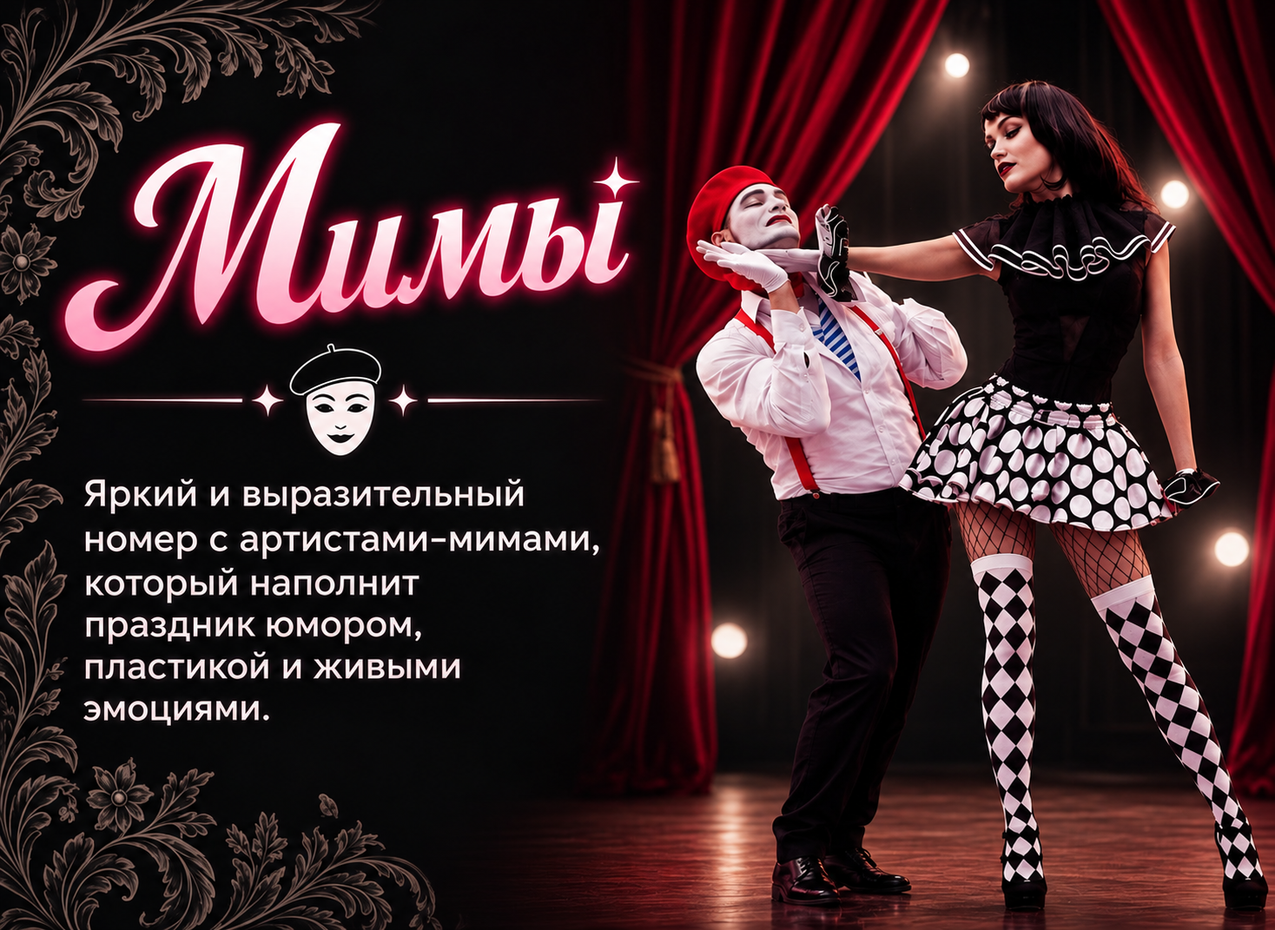
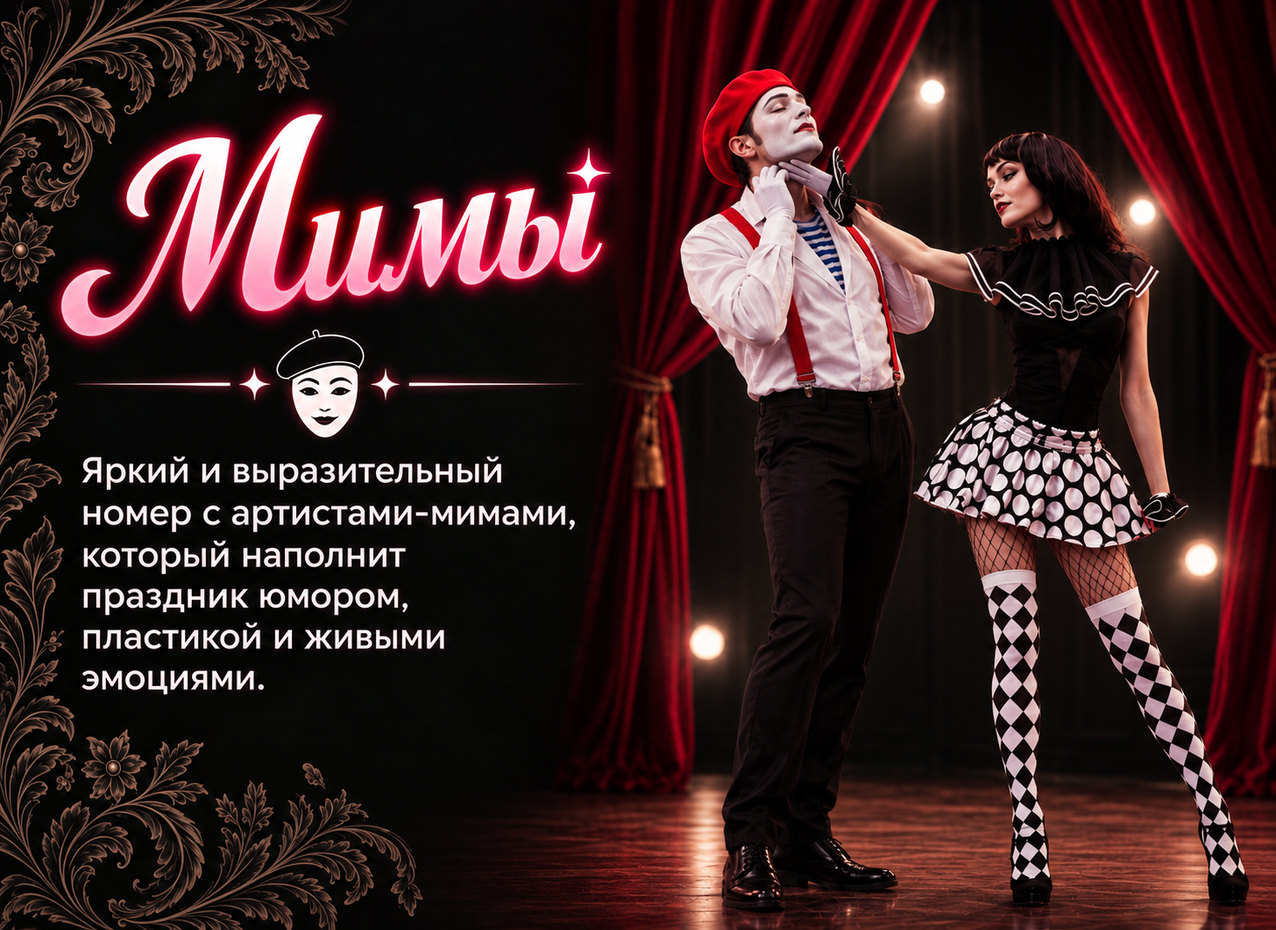
Обновление: пустые поля логина/пароля в админке, новое превью для 10-го шоу (Мимы) и сдвиг баннера для ВК вправо

diff --git a/index.html b/index.html
@@ -25,8 +25,8 @@
 
     <!-- Preload Critical Background & Show Previews for Instant 0ms Load -->
     <link rel="preload" as="image" href="./img/main-bg.webp" type="image/webp" media="(min-width: 961px)" fetchpriority="high">
-    <link rel="preload" as="image" href="./img/index/banner.png?v=1791580001" type="image/png" media="(min-width: 961px)" fetchpriority="high">
-    <link rel="preload" as="image" href="./img/index/banner.png?v=1791580001" type="image/png" media="(max-width: 960px)" fetchpriority="high">
+    <link rel="preload" as="image" href="./img/index/banner.png?v=1791592000" type="image/png" media="(min-width: 961px)" fetchpriority="high">
+    <link rel="preload" as="image" href="./img/index/banner.png?v=1791592000" type="image/png" media="(max-width: 960px)" fetchpriority="high">
     <link rel="preload" as="image" href="./show1.png?v=1791580001" type="image/png" fetchpriority="high">
     <link rel="preload" as="image" href="./show2.png?v=1791580001" type="image/png" fetchpriority="high">
     <link rel="preload" as="image" href="./show3.webp?v=1791553550000" type="image/webp">
@@ -39,16 +39,17 @@
     <meta property="og:title" content="Та-Ис шоу — Танцевальное шоу на ваш праздник | Самара">
     <meta property="og:description" content="Яркие танцевальные шоу, эксклюзивная хореография и роскошные костюмы для вашего праздника! Выездные выступления на свадьбы и корпоративы в Самаре и по РФ.">
     <meta property="og:url" content="https://таисшоу.рф/">
-    <meta property="og:image" content="https://таисшоу.рф/img/index/banner.png">
-    <meta property="og:image:width" content="1600">
-    <meta property="og:image:height" content="770">
+    <meta property="og:image" content="https://таисшоу.рф/img/index/banner.png?v=1791592000">
+    <meta property="og:image:width" content="1808">
+    <meta property="og:image:height" content="870">
+    <meta property="vk:image" content="https://таисшоу.рф/img/index/banner.png?v=1791592000">
 
     <!-- Twitter / X Cards -->
     <meta name="twitter:card" content="summary_large_image">
     <meta name="twitter:domain" content="таисшоу.рф">
     <meta name="twitter:title" content="Та-Ис шоу — Танцевальное шоу на праздник | Самара">
     <meta name="twitter:description" content="Закажите эксклюзивное танцевальное шоу Та-Ис шоу на мероприятие в Самаре и по РФ. Завораживающая хореография и атмосфера праздника!">
-    <meta name="twitter:image" content="https://таисшоу.рф/img/index/banner.png">
+    <meta name="twitter:image" content="https://таисшоу.рф/img/index/banner.png?v=1791592000">
 
     <!-- Yandex.Metrika counter -->
     <script type="text/javascript">
@@ -179,7 +180,7 @@
                 width: 100% !important;
                 max-width: 100% !important;
                 aspect-ratio: 1808 / 870 !important;
-                background-image: url('./img/index/banner.png?v=1791580001') !important;
+                background-image: url('./img/index/banner.png?v=1791592000') !important;
                 background-size: contain !important;
                 background-position: center center !important;
                 background-repeat: no-repeat !important;
@@ -424,7 +425,7 @@
         min-height: unset !important;
         max-height: none !important;
         padding: 0 !important;
-        background-image: url('./img/index/banner.png?v=1791580001') !important;
+        background-image: url('./img/index/banner.png?v=1791592000') !important;
         background-size: cover !important;
         background-repeat: no-repeat !important;
         background-position: center center !important;
@@ -1432,7 +1433,7 @@
                 <div class="content custom-image-content"></div>
             </div>
             <div class="event-item swiper-slide" data-month-year="10_2027" data-index="9" style="cursor: pointer;">
-                <img class="background-image" src="./show10.webp?v=1791553010000" alt="Мимы" loading="lazy" decoding="async" style="position: absolute; top: 0px; left: 0px; width: 100%; height: 100%; object-fit: cover; object-position: left bottom; transform: none;">
+                <img class="background-image" src="./show10.webp?v=1791592000" alt="Мимы" loading="lazy" decoding="async" style="position: absolute; top: 0px; left: 0px; width: 100%; height: 100%; object-fit: cover; object-position: center center; transform: none;">
                 <div class="content custom-image-content"></div>
             </div>
         </div>
@@ -1842,7 +1843,7 @@ window.monthsData = [
     {"type": "image", "label": "Фото 1", "url": "./img/block/show9_photo2.webp"},
     {"type": "image", "label": "Фото 2", "url": "./img/block/show9_photo3.png"}
   ], "is_custom_image": true},
-  {"month": "10", "year": "2027", "image": "./show10.webp?v=1791553010000", "event_date": "2027-10-31 19:00:00", "title": "Мимы", "description": "Выразительный, театрализованный номер, где главные участники номера танцующие мимы, рассказывают историю романтической любви главных персонажей. Номер с элементами акробатики, также является победителем многих международных хореографических конкурсов. Шоу, где эмоции говорят громче слов: искусство безмолвия, пластика, мимика и тайна пантомимы.", "detailsText": "\n        <h3 style=\"color: #f8e7bc; margin-top: 0; font-size: 22px; font-weight: 500;\">О шоу</h3>\n        <p style=\"margin-bottom: 15px;\">Выразительный, театрализованный номер, где главные участники номера танцующие мимы, рассказывают историю романтической любви главных персонажей. Номер с элементами акробатики, также является победителем многих международных хореографических конкурсов.</p>\n        <p style=\"margin-bottom: 15px;\">🎭 <strong>«Мимы» — шоу, где эмоции говорят громче слов!</strong></p>\n        <p style=\"margin-bottom: 15px;\">✨ «Мимы» — это завораживающее представление, построенное на языке жестов, пластики и мимики. Без единого слова артисты рассказывают истории, которые трогают до глубины души. Каждое движение отточено до мелочей, а каждая эмоция — искренна и понятна без перевода. Это театр, где правит пантомима.</p>\n        <p style=\"margin-bottom: 15px;\">🖤 Строгие, стильные костюмы и минималистичная сценография создают особую атмосферу, в которой ничто не отвлекает от главного — от чувств. Зрители замирают, следя за каждым жестом, и не замечают, как оказываются внутри истории. Это шоу, которое одинаково впечатляет и в камерном зале, и на большой сцене.</p>\n        <p style=\"margin-bottom: 15px;\">🌟 «Мимы» — это больше, чем танец. Это искусство безмолвия, которое говорит громче любых слов. Корпоратив, свадьба, день рождения или светский вечер — это шоу станет изысканным и запоминающимся акцентом вашего праздника.</p>\n        <p style=\"margin-bottom: 8px; font-weight: 600; color: #f8e7bc;\">🎯 Идеально для тех, кто хочет:</p>\n        <ul style=\"margin-top: 0; margin-bottom: 15px; padding-left: 20px; line-height: 1.6;\">\n            <li>Удивить гостей необычным и элегантным номером</li>\n            <li>Создать атмосферу тайны и артистизма</li>\n            <li>Подарить вечер, наполненный эмоциями без слов</li>\n        </ul>\n    ", "media": [
+  {"month": "10", "year": "2027", "image": "./show10.webp?v=1791592000", "event_date": "2027-10-31 19:00:00", "title": "Мимы", "description": "Выразительный, театрализованный номер, где главные участники номера танцующие мимы, рассказывают историю романтической любви главных персонажей. Номер с элементами акробатики, также является победителем многих международных хореографических конкурсов. Шоу, где эмоции говорят громче слов: искусство безмолвия, пластика, мимика и тайна пантомимы.", "detailsText": "\n        <h3 style=\"color: #f8e7bc; margin-top: 0; font-size: 22px; font-weight: 500;\">О шоу</h3>\n        <p style=\"margin-bottom: 15px;\">Выразительный, театрализованный номер, где главные участники номера танцующие мимы, рассказывают историю романтической любви главных персонажей. Номер с элементами акробатики, также является победителем многих международных хореографических конкурсов.</p>\n        <p style=\"margin-bottom: 15px;\">🎭 <strong>«Мимы» — шоу, где эмоции говорят громче слов!</strong></p>\n        <p style=\"margin-bottom: 15px;\">✨ «Мимы» — это завораживающее представление, построенное на языке жестов, пластики и мимики. Без единого слова артисты рассказывают истории, которые трогают до глубины души. Каждое движение отточено до мелочей, а каждая эмоция — искренна и понятна без перевода. Это театр, где правит пантомима.</p>\n        <p style=\"margin-bottom: 15px;\">🖤 Строгие, стильные костюмы и минималистичная сценография создают особую атмосферу, в которой ничто не отвлекает от главного — от чувств. Зрители замирают, следя за каждым жестом, и не замечают, как оказываются внутри истории. Это шоу, которое одинаково впечатляет и в камерном зале, и на большой сцене.</p>\n        <p style=\"margin-bottom: 15px;\">🌟 «Мимы» — это больше, чем танец. Это искусство безмолвия, которое говорит громче любых слов. Корпоратив, свадьба, день рождения или светский вечер — это шоу станет изысканным и запоминающимся акцентом вашего праздника.</p>\n        <p style=\"margin-bottom: 8px; font-weight: 600; color: #f8e7bc;\">🎯 Идеально для тех, кто хочет:</p>\n        <ul style=\"margin-top: 0; margin-bottom: 15px; padding-left: 20px; line-height: 1.6;\">\n            <li>Удивить гостей необычным и элегантным номером</li>\n            <li>Создать атмосферу тайны и артистизма</li>\n            <li>Подарить вечер, наполненный эмоциями без слов</li>\n        </ul>\n    ", "media": [
     {"type": "video", "label": "Видео 1", "url": "./img/block/show10_video1.mp4", "poster": "./img/block/show10_v1_thumb.jpg"},
     {"type": "video", "label": "Видео 2", "url": "./img/block/show10_video2.mp4", "poster": "./img/block/show10_v2_thumb.jpg"},
     {"type": "image", "label": "Фото 1", "url": "./img/block/show10_photo1.webp"},

diff --git a/admin.html b/admin.html
@@ -757,13 +757,16 @@
             <p class="login-subtitle">Редактирование сайта таисшоу.рф</p>
 
             <form id="login-form" onsubmit="event.preventDefault(); return false;" autocomplete="off">
+                <!-- Prevent browser autofill -->
+                <input type="text" style="display:none" aria-hidden="true" tabindex="-1">
+                <input type="password" style="display:none" aria-hidden="true" tabindex="-1">
                 <div class="form-group">
                     <label class="form-label" for="username">Логин</label>
-                    <input type="text" id="username" class="form-input" placeholder="Введите логин" value="" required autocomplete="off">
+                    <input type="text" id="username" name="login_user_field" class="form-input" placeholder="Введите логин" value="" required autocomplete="off" readonly onfocus="this.removeAttribute('readonly');">
                 </div>
                 <div class="form-group">
                     <label class="form-label" for="password">Пароль</label>
-                    <input type="password" id="password" class="form-input" placeholder="Введите пароль" value="" required autocomplete="new-password">
+                    <input type="password" id="password" name="login_pass_field" class="form-input" placeholder="Введите пароль" value="" required autocomplete="new-password" readonly onfocus="this.removeAttribute('readonly');">
                 </div>
                 <div id="login-error-msg" style="display:none; color: #ff6b6b; background: rgba(239, 68, 68, 0.12); border: 1px solid rgba(239, 68, 68, 0.3); border-radius: 8px; padding: 10px 14px; margin-bottom: 16px; font-size: 13px; text-align: center;"></div>
                 <button type="submit" class="btn btn-primary btn-block" id="btn-login-submit">
@@ -1326,25 +1329,36 @@
             }
         }
 
+        function clearLoginInputs() {
+            const uInput = document.getElementById('username');
+            const pInput = document.getElementById('password');
+            if (uInput) {
+                uInput.value = '';
+                uInput.setAttribute('readonly', 'readonly');
+            }
+            if (pInput) {
+                pInput.value = '';
+                pInput.setAttribute('readonly', 'readonly');
+            }
+        }
+
         function setAuthenticated(isAuth) {
             appState.authenticated = isAuth;
             document.getElementById('login-screen').style.display = isAuth ? 'none' : 'flex';
             document.getElementById('dashboard-screen').style.display = isAuth ? 'flex' : 'none';
             if (!isAuth) {
-                const uInput = document.getElementById('username');
-                const pInput = document.getElementById('password');
-                if (uInput) uInput.value = '';
-                if (pInput) pInput.value = '';
+                clearLoginInputs();
             }
         }
 
-        // Ensure login inputs are always completely empty on initial load
-        document.addEventListener('DOMContentLoaded', () => {
-            const uInput = document.getElementById('username');
-            const pInput = document.getElementById('password');
-            if (uInput) uInput.value = '';
-            if (pInput) pInput.value = '';
-        });
+        // Ensure login inputs are always completely empty on initial load & prevent password managers autofill
+        window.addEventListener('DOMContentLoaded', clearLoginInputs);
+        window.addEventListener('load', clearLoginInputs);
+        window.addEventListener('pageshow', clearLoginInputs);
+        setTimeout(clearLoginInputs, 50);
+        setTimeout(clearLoginInputs, 150);
+        setTimeout(clearLoginInputs, 400);
+        setTimeout(clearLoginInputs, 800);
 
         // Login Handler
         document.getElementById('login-form').addEventListener('submit', async (e) => {
@@ -1404,7 +1418,6 @@
                         user: username,
                         loggedAt: Date.now()
                     }));
-                    localStorage.setItem('tais_admin_user', 'AnzhelikaForis');
                     showToast('Успешный вход в систему!');
                     setAuthenticated(true);
                     loadData();

diff --git a/admin/index.html b/admin/index.html
@@ -757,13 +757,16 @@
             <p class="login-subtitle">Редактирование сайта таисшоу.рф</p>
 
             <form id="login-form" onsubmit="event.preventDefault(); return false;" autocomplete="off">
+                <!-- Prevent browser autofill -->
+                <input type="text" style="display:none" aria-hidden="true" tabindex="-1">
+                <input type="password" style="display:none" aria-hidden="true" tabindex="-1">
                 <div class="form-group">
                     <label class="form-label" for="username">Логин</label>
-                    <input type="text" id="username" class="form-input" placeholder="Введите логин" value="" required autocomplete="off">
+                    <input type="text" id="username" name="login_user_field" class="form-input" placeholder="Введите логин" value="" required autocomplete="off" readonly onfocus="this.removeAttribute('readonly');">
                 </div>
                 <div class="form-group">
                     <label class="form-label" for="password">Пароль</label>
-                    <input type="password" id="password" class="form-input" placeholder="Введите пароль" value="" required autocomplete="new-password">
+                    <input type="password" id="password" name="login_pass_field" class="form-input" placeholder="Введите пароль" value="" required autocomplete="new-password" readonly onfocus="this.removeAttribute('readonly');">
                 </div>
                 <div id="login-error-msg" style="display:none; color: #ff6b6b; background: rgba(239, 68, 68, 0.12); border: 1px solid rgba(239, 68, 68, 0.3); border-radius: 8px; padding: 10px 14px; margin-bottom: 16px; font-size: 13px; text-align: center;"></div>
                 <button type="submit" class="btn btn-primary btn-block" id="btn-login-submit">
@@ -1326,25 +1329,36 @@
             }
         }
 
+        function clearLoginInputs() {
+            const uInput = document.getElementById('username');
+            const pInput = document.getElementById('password');
+            if (uInput) {
+                uInput.value = '';
+                uInput.setAttribute('readonly', 'readonly');
+            }
+            if (pInput) {
+                pInput.value = '';
+                pInput.setAttribute('readonly', 'readonly');
+            }
+        }
+
         function setAuthenticated(isAuth) {
             appState.authenticated = isAuth;
             document.getElementById('login-screen').style.display = isAuth ? 'none' : 'flex';
             document.getElementById('dashboard-screen').style.display = isAuth ? 'flex' : 'none';
             if (!isAuth) {
-                const uInput = document.getElementById('username');
-                const pInput = document.getElementById('password');
-                if (uInput) uInput.value = '';
-                if (pInput) pInput.value = '';
+                clearLoginInputs();
             }
         }
 
-        // Ensure login inputs are always completely empty on initial load
-        document.addEventListener('DOMContentLoaded', () => {
-            const uInput = document.getElementById('username');
-            const pInput = document.getElementById('password');
-            if (uInput) uInput.value = '';
-            if (pInput) pInput.value = '';
-        });
+        // Ensure login inputs are always completely empty on initial load & prevent password managers autofill
+        window.addEventListener('DOMContentLoaded', clearLoginInputs);
+        window.addEventListener('load', clearLoginInputs);
+        window.addEventListener('pageshow', clearLoginInputs);
+        setTimeout(clearLoginInputs, 50);
+        setTimeout(clearLoginInputs, 150);
+        setTimeout(clearLoginInputs, 400);
+        setTimeout(clearLoginInputs, 800);
 
         // Login Handler
         document.getElementById('login-form').addEventListener('submit', async (e) => {
@@ -1404,7 +1418,6 @@
                         user: username,
                         loggedAt: Date.now()
                     }));
-                    localStorage.setItem('tais_admin_user', 'AnzhelikaForis');
                     showToast('Успешный вход в систему!');
                     setAuthenticated(true);
                     loadData();

diff --git a/style.css b/style.css
@@ -1078,7 +1078,7 @@ footer .footer_section .footer_block .link_block svg {
 }
 
 .banner .banner_image {
-    background-image: url('img/index/banner.png?v=1791580001') !important;
+    background-image: url('img/index/banner.png?v=1791592000') !important;
     background-size: contain !important;
     background-position: center center !important;
     background-repeat: no-repeat !important;
@@ -1089,7 +1089,7 @@ footer .footer_section .footer_block .link_block svg {
 
 @media only screen and (max-width: 1024px) and (min-width: 761px) {
     .banner .banner_image {
-        background-image: url('img/index/banner.png?v=1791580001') !important;
+        background-image: url('img/index/banner.png?v=1791592000') !important;
         background-size: contain !important;
         background-position: center center !important;
     }

diff --git a/style.min.css b/style.min.css
@@ -366,7 +366,7 @@ body {
 .banner .banner_image {
   width: 100%;
   aspect-ratio: 1600/770;
-  background-image: url(./img/index/banner.png?v=1791570001);
+  background-image: url(./img/index/banner.png?v=1791592000);
   background-size: contain;
   background-repeat: no-repeat;
 }
@@ -10586,7 +10586,7 @@ hr {
     max-height: 480px;
     height: 100%;
     max-width: 976px;
-    background-image: url(./img/index/banner.png?v=1791570001) !important;
+    background-image: url(./img/index/banner.png?v=1791592000) !important;
     background-size: contain;
     background-repeat: no-repeat;
   }
